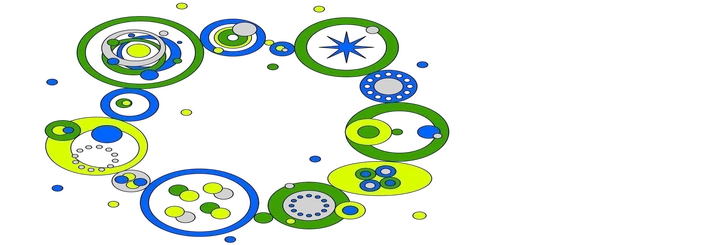
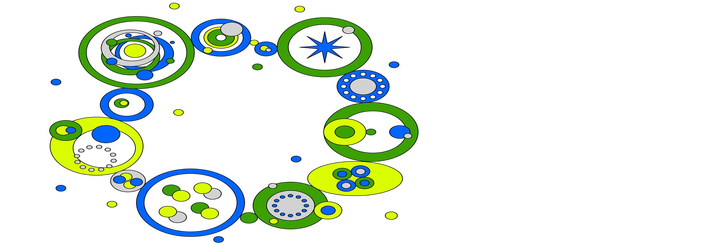
Circles theme: crisper full-colour drawing, darker green end, readable right menu
Claude-Session: https://claude.ai/code/session_01Pw5g5DUPR11sjgk55z4ibw

Changed region(s): [[0.062, 0.0, 0.6507, 1.0], [0.062, 0.7429, 0.093, 0.8], [0.062, 0.3143, 0.093, 0.3714]]

diff --git a/artifacts/gerrit-thanh-landing/src/pages/home.tsx b/artifacts/gerrit-thanh-landing/src/pages/home.tsx
@@ -125,10 +125,10 @@ export const Home: FC = () => {
               {/* Circles theme: deep blue into the drawing's blue, green and yellow. */}
               <linearGradient id="flash-panel-circles" x1="232.67" y1="287.95" x2="822.6" y2="287.95" gradientUnits="userSpaceOnUse">
                 <stop offset="0" stopColor="#031b49" />
-                <stop offset=".3" stopColor="#0a4fc4" />
-                <stop offset=".55" stopColor="#0066ff" />
-                <stop offset=".8" stopColor="#3d9900" />
-                <stop offset="1" stopColor="#ddff00" />
+                <stop offset=".32" stopColor="#0848b8" />
+                <stop offset=".6" stopColor="#0066ff" />
+                <stop offset=".86" stopColor="#1f7a2e" />
+                <stop offset="1" stopColor="#2f8f12" />
               </linearGradient>
               <linearGradient id="flash-panel-gloss" x1="0" y1="131.35" x2="0" y2="444.55" gradientUnits="userSpaceOnUse">
                 <stop offset="0" stopColor="#ffffff" stopOpacity=".28" />
@@ -193,6 +193,15 @@ export const Home: FC = () => {
               </linearGradient>
               <mask id="oval-signal-mask" maskUnits="userSpaceOnUse" x="230" y="190" width="592" height="254">
                 <rect x="230" y="190" width="592" height="254" fill="url(#oval-signal-fade-x)" />
+              </mask>
+              <linearGradient id="circles-fade-x" x1="360" y1="0" x2="822" y2="0" gradientUnits="userSpaceOnUse">
+                <stop offset="0" stopColor="#fff" stopOpacity=".05" />
+                <stop offset=".35" stopColor="#fff" stopOpacity=".75" />
+                <stop offset=".55" stopColor="#fff" stopOpacity="1" />
+                <stop offset="1" stopColor="#fff" stopOpacity="1" />
+              </linearGradient>
+              <mask id="circles-mask" maskUnits="userSpaceOnUse" x="230" y="120" width="600" height="330">
+                <rect x="230" y="120" width="600" height="330" fill="url(#circles-fade-x)" />
               </mask>
               <mask id="oval-signal-vertical-mask" maskUnits="userSpaceOnUse" x="230" y="190" width="592" height="254">
                 <rect x="230" y="190" width="592" height="254" fill="url(#oval-signal-fade-y)" />
@@ -320,7 +329,7 @@ export const Home: FC = () => {
               <rect x="232" y="131" width="190" height="314" fill="url(#panel-curve-shade)" />
             </g>
             {/* Mirrored oval signal: fuller on the light right side, tapering into the dark left. */}
-            <g clipPath="url(#blue-panel-clip)" pointerEvents="none" aria-hidden="true" opacity=".54" style={{ mixBlendMode: 'multiply' }}>
+            {!isCircles && <g clipPath="url(#blue-panel-clip)" pointerEvents="none" aria-hidden="true" opacity=".54" style={{ mixBlendMode: 'multiply' }}>
               <g mask="url(#oval-signal-mask)">
                 <g mask="url(#oval-signal-vertical-mask)">
                   {/* Keep masks in scene coordinates; mirror only the PNG and its trails. */}
@@ -337,12 +346,12 @@ export const Home: FC = () => {
                   </g>
                 </g>
               </g>
-            </g>
+            </g>}
 
             {/* The circles theme shows its figure in its own colours, not only as a shadow in the glass. */}
             {isCircles && (
-              <g clipPath="url(#blue-panel-clip)" pointerEvents="none" aria-hidden="true" opacity=".78">
-                <g mask="url(#oval-signal-mask)">
+              <g clipPath="url(#blue-panel-clip)" pointerEvents="none" aria-hidden="true">
+                <g mask="url(#circles-mask)">
                   <g className="home-oval-drift home-dots-swap" key={`colour-${signalImage}`}>
                     <g className="home-dots-inner">
                       <g transform="translate(972 0) scale(-1 1)">
@@ -355,7 +364,7 @@ export const Home: FC = () => {
             )}
 
             {/* Soft rim light on the oval shapes */}
-            <g clipPath="url(#blue-panel-clip)" pointerEvents="none" aria-hidden="true" opacity=".45" style={{ mixBlendMode: 'screen' }}>
+            {!isCircles && <g clipPath="url(#blue-panel-clip)" pointerEvents="none" aria-hidden="true" opacity=".45" style={{ mixBlendMode: 'screen' }}>
               <g mask="url(#oval-signal-mask)">
                 <g mask="url(#oval-signal-vertical-mask)">
                   <g className="home-oval-drift home-dots-swap" key={signalImage}>
@@ -367,7 +376,7 @@ export const Home: FC = () => {
                   </g>
                 </g>
               </g>
-            </g>
+            </g>}
 
             {/* Continuous glass roll-off: one broad reflection, without narrow parallel rim bands. */}
             <g clipPath="url(#blue-panel-clip)" pointerEvents="none" aria-hidden="true" fill="none" strokeLinecap="round">

diff --git a/artifacts/gerrit-thanh-landing/src/styles/home-motion.css b/artifacts/gerrit-thanh-landing/src/styles/home-motion.css
@@ -464,6 +464,17 @@
 
 /* The circles ring turns very slowly in perspective, like a record seen from the side. */
 .home-page[data-palette="circles"] .home-oval-drift {
-  transform-origin: 600px 316px;
+  transform-origin: 615px 316px;
   animation: home-dots-spin 120s linear infinite;
+}
+
+/* Circles theme: the right-hand menu sits on the colourful drawing, so it gets white letters with a dark halo. */
+.home-page[data-palette="circles"] :is(.home-nav-link-about, .home-nav-link-works, .home-nav-link-artwork, .home-nav-link-visualisations) {
+  --home-nav-accent: #ffffff;
+}
+.home-page[data-palette="circles"] :is(.home-nav-link-about, .home-nav-link-works, .home-nav-link-artwork, .home-nav-link-visualisations) .home-nav-title {
+  text-shadow:
+    0 0 calc(1.5 * var(--u)) #021433,
+    0 0 calc(3.5 * var(--u)) #021433,
+    0 0 calc(7 * var(--u)) rgba(2, 20, 51, .8);
 }
